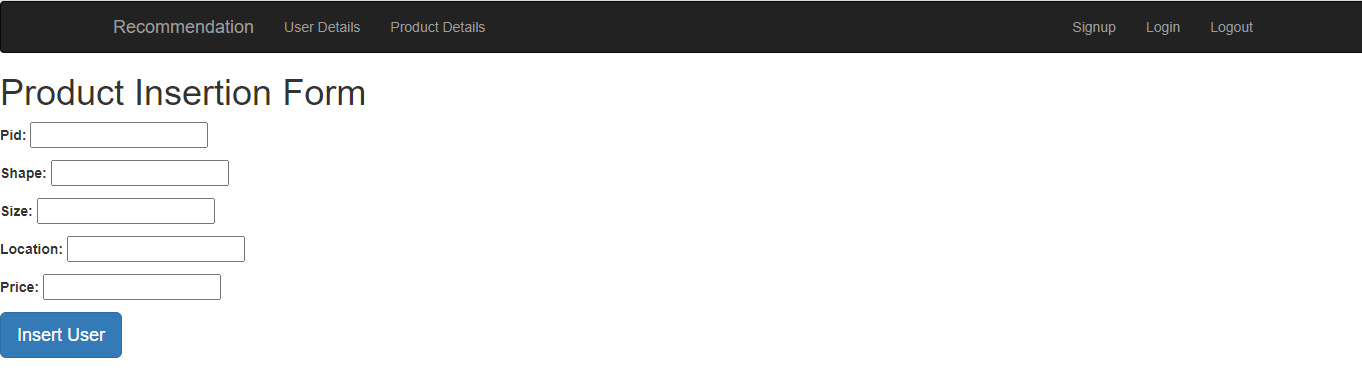
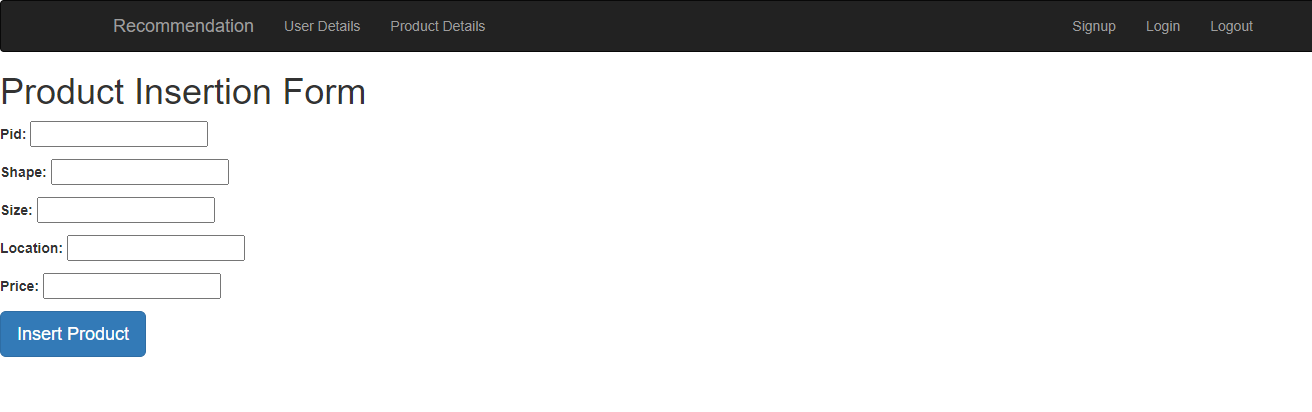
Modified insert product form

diff --git a/templates/products/add.html b/templates/products/add.html
@@ -6,6 +6,6 @@
   <form method="post">
         {{form.as_p}}
     {% csrf_token %}
-    <input type="submit" class='btn btn-primary btn-lg' value="Insert User">
+    <input type="submit" class='btn btn-primary btn-lg' value="Insert Product">
   </form>
 {% endblock %}
